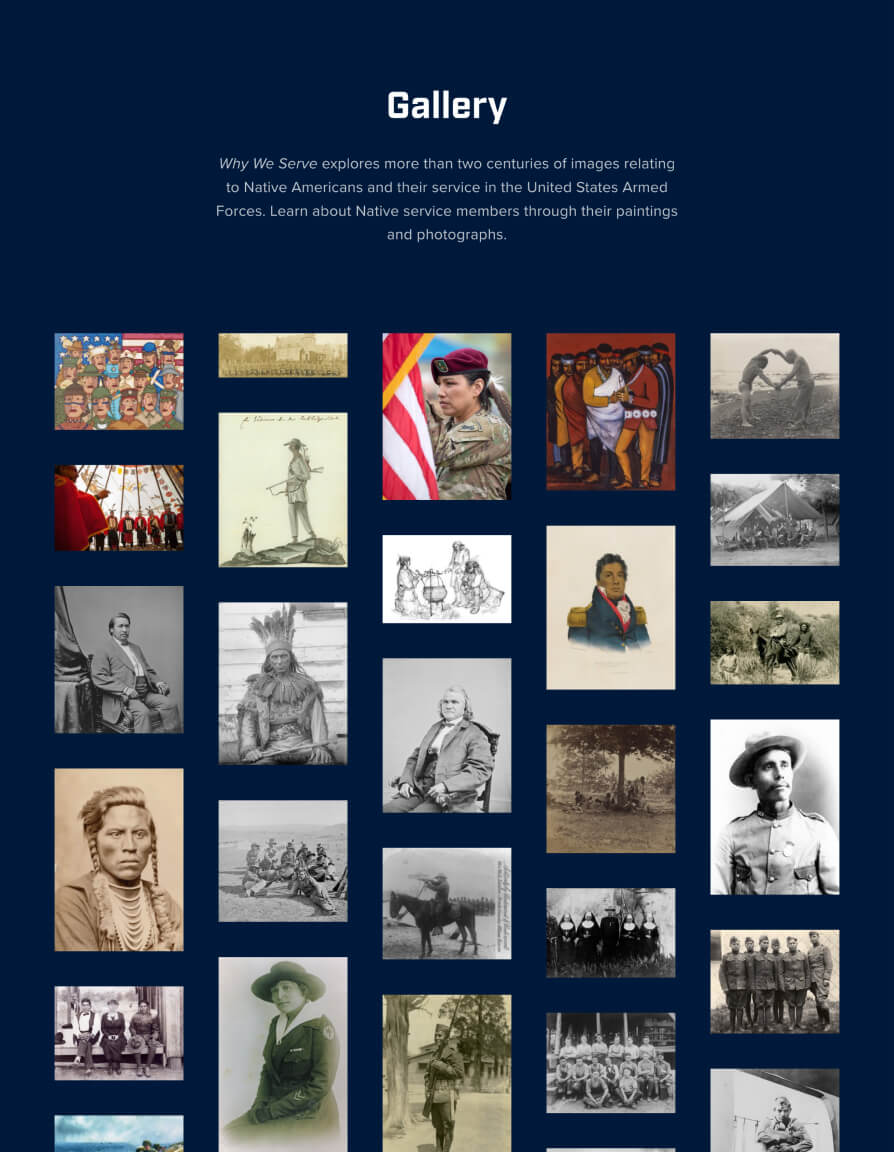
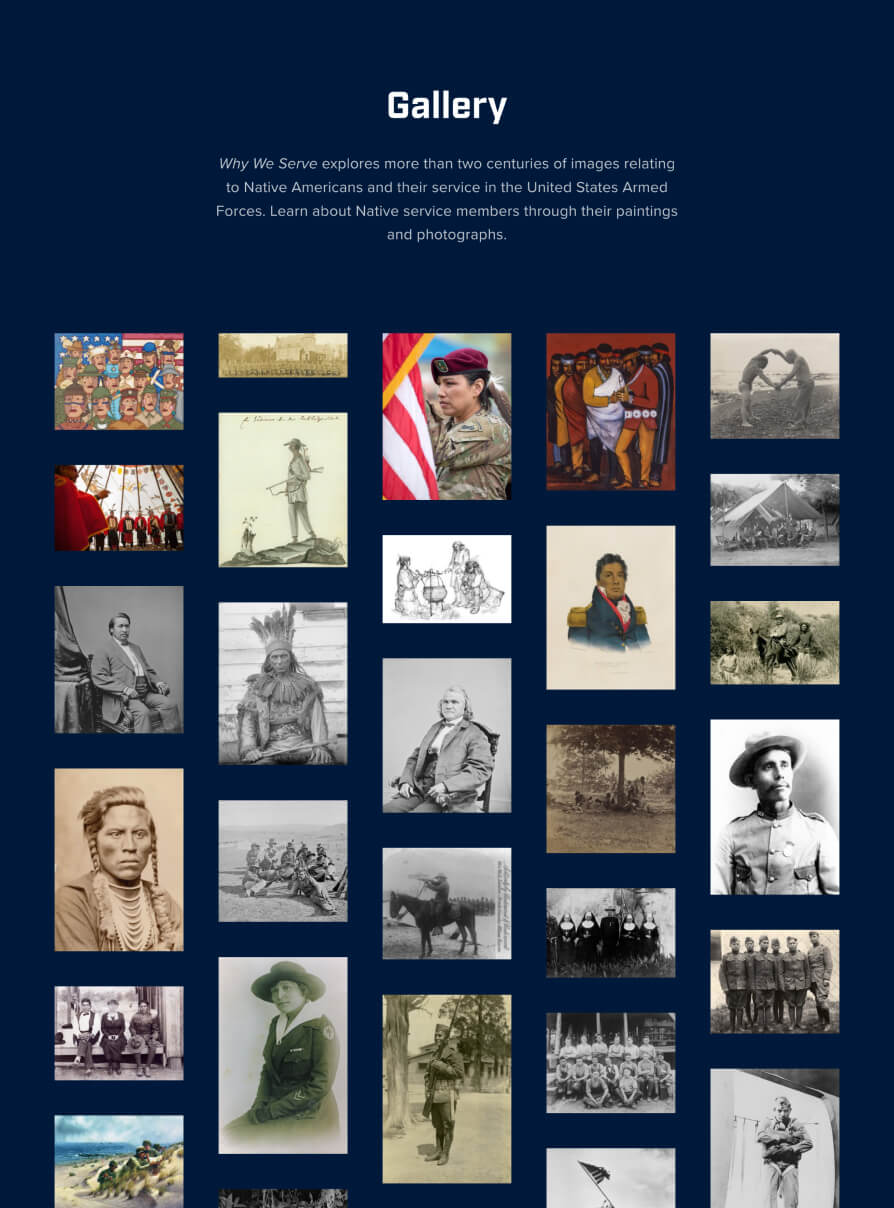
Layout things

diff --git a/src/render/column.js b/src/render/column.js
@@ -11,8 +11,13 @@
  *  @prop {string} widthSmall
  *  @prop {string} widthMedium
  *  @prop {string} widthLarge
+ *  @prop {object} widthCustom
  *  @prop {string} justify
  *  @prop {string} align
+ *  @prop {string} order
+ *  @prop {string} orderSmall
+ *  @prop {string} orderMedium
+ *  @prop {string} orderLarge
  *  @prop {string} classes
  * }
  * @return {object}
@@ -25,8 +30,10 @@ const column = ({ args = {} }) => {
     widthSmall = '',
     widthMedium = '',
     widthLarge = '',
+    widthCustom = false,
     justify = '',
     align = '',
+    grow = '',
     classes = '' // Back end option
   } = args
 
@@ -36,7 +43,7 @@ const column = ({ args = {} }) => {
 
   /* Width */
 
-  if (!width) {
+  if (!width && !widthCustom) {
     width = '1-1'
   }
 
@@ -68,10 +75,33 @@ const column = ({ args = {} }) => {
     classes.push(`l-align-${align}`)
   }
 
+  /* Grow */
+
+  if (grow) {
+    classes.push('l-flex-grow-1')
+  }
+
+  /* Attr */
+
+  const attr = []
+
+  if (widthCustom) {
+    classes.push('l-width-custom')
+
+    const styleArray = [
+      `--width:${widthCustom?.default ? widthCustom.default : '100%'}`,
+      `--widthSmall:${widthCustom?.small ? widthCustom.small : '100%'}`,
+      `--widthMedium:${widthCustom?.medium ? widthCustom.medium : '100%'}`,
+      `--widthLarge:${widthCustom?.large ? widthCustom.large : '100%'}`
+    ]
+
+    attr.push(` style=${styleArray.join(';')}`)
+  }
+
   /* Output */
 
   return {
-    start: `<${tag} class="${classes.join(' ')}">`,
+    start: `<${tag} class="${classes.join(' ')}"${attr.join(' ')}>`,
     end: `</${tag}>`
   }
 }

diff --git a/src/assets/layouts/_width.scss b/src/assets/layouts/_width.scss
@@ -1,0 +1,32 @@
+/**
+ * Layouts - width
+ */
+
+/* Imports */
+
+@use "@alanizcreative/formation/src/utils/mixins" as mix;
+@use "@alanizcreative/formation/src/layouts/width";
+
+/* Styles */
+
+.l-width-custom {
+  --width: 100%;
+  --widthSmall: 100%;
+  --widthMedium: 100%;
+  --widthLarge: 100%;
+  --w: var(--width);
+
+  width: var(--w);
+
+  @include mix.breakpoint-min("s") {
+    --w: var(--widthSmall);
+  }
+
+  @include mix.breakpoint-min("m") {
+    --w: var(--widthMedium);
+  }
+
+  @include mix.breakpoint-min("l") {
+    --w: var(--widthLarge);
+  }
+}

diff --git a/src/render/image.js b/src/render/image.js
@@ -58,7 +58,7 @@ const image = ({ args = {}, parents = [] }) => {
       max: card ? 800 : 1600
     })
 
-    let classes = 'l-relative l-overflow-hidden'
+    let classes = 'l-relative l-overflow-hidden b-radius-s b-radius-m-m l-isolate l-height-100-pc'
 
     if (aspectRatio) {
       classes += ` l-aspect-ratio-${aspectRatio}`
@@ -69,7 +69,7 @@ const image = ({ args = {}, parents = [] }) => {
     }
 
     if (border) {
-      classes += ' b-all b-theme b-radius-s b-radius-m-m l-isolate'
+      classes += ' b-all b-theme'
     }
 
     imageOutput = `

diff --git a/src/assets/index.scss b/src/assets/index.scss
@@ -46,7 +46,7 @@
 @use "@alanizcreative/formation/src/layouts/gap-margin";
 @use "@alanizcreative/formation/src/layouts/padding";
 @use "@alanizcreative/formation/src/layouts/margin";
-@use "@alanizcreative/formation/src/layouts/width";
+@use "layouts/width";
 @use "@alanizcreative/formation/src/layouts/height";
 @use "@alanizcreative/formation/src/layouts/object";
 @use "layouts/breakout";

diff --git a/src/render/container.js b/src/render/container.js
@@ -86,7 +86,7 @@ const container = ({ args = {} }) => {
     if (layout === 'row') {
       classes.push(`l-gap-margin-${gapLarge}-l`)
     } else {
-      classes.push(`l-margin-bottom-${gapLarge}-all-m`)
+      classes.push(`l-margin-bottom-${gapLarge}-all-l`)
     }
   }
 

diff --git a/src/assets/layouts/_breakout.scss b/src/assets/layouts/_breakout.scss
@@ -12,8 +12,8 @@
   @include mix.breakpoint-min-max("0", "container-xl-no-padding") {
     padding-left: 0;
     padding-right: 0;
-    margin-left: -5%;
-    margin-right: -5%;
+    margin-left: -5vw;
+    margin-right: -5vw;
     max-width: 110vw;
   }
 }

diff --git a/src/assets/config/_index.scss b/src/assets/config/_index.scss
@@ -123,7 +123,7 @@ $gaps: (
 
   $margin-bottom: $gaps,
   $margin-bottom-all: $gaps,
-  $margin-vertical-breakpoints: ("m"),
+  $margin-vertical-breakpoints: ("s", "m", "l"),
 
   /* Aspect ratios */
 
